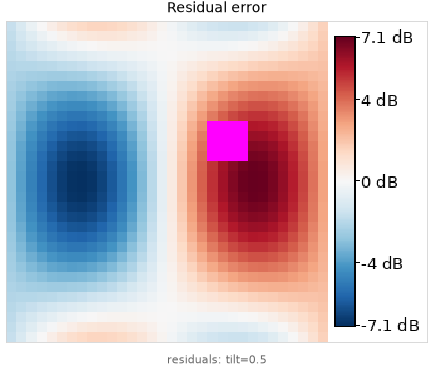
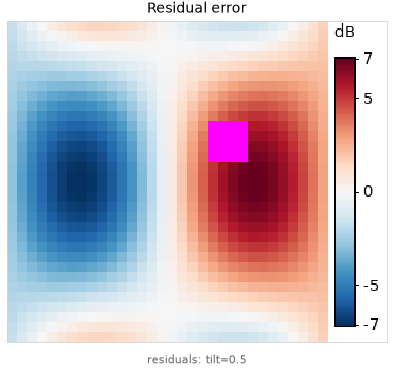
Colorbar: unit once above the bar, consistent decimals, ends never dropped
- unit (and a x10^k multiplier for >= 1e5 / < 1e-2 ranges) written once
  above the bar; colorbar="text" writes a longer label vertically
- all labels of a bar share their decimals; the ends get enough decimals
  to be within 0.5 % of the range; round ticks 1/2/5 x 10^k; a tick close
  to an end is dropped, never the end (place_colorbar_labels)
- tests over [1, 4.2], [-0.39, 0.39], [0, 255], [1e-4, 3e-3], [0, 1e6],
  constant maps, 16 px to 1200 px maps; docs image regenerated

diff --git a/src/interactive_pipe/graphical/display.py b/src/interactive_pipe/graphical/display.py
@@ -13,7 +13,7 @@ No GUI toolkit is imported here.
 """
 
 from functools import lru_cache
-from typing import Any, List, Optional, Tuple
+from typing import Any, List, Optional, Sequence, Tuple
 
 import numpy as np
 
@@ -258,8 +258,10 @@ def apply_display_style(content: Any, style: Optional[dict]) -> Any:
       max, as in matplotlib; ``center=c`` makes the range symmetric around
       ``c``) and, with a colormap, turned into an ``(H, W, 3)`` RGB image;
     - ``colorbar=True`` appends the scale on the right (gray colormap when
-      none is given), with labelled ticks (``unit`` appended to each label).
-      Small maps are upscaled first so the text stays legible;
+      none is given), with labelled ticks; ``unit`` is written once above the
+      bar (with a ``x10^k`` multiplier for very large / small values);
+      ``colorbar="some text"`` also writes that text vertically along the
+      bar. Small maps are upscaled first so the text stays legible;
     - NaN and masked values (``numpy.ma``) are drawn in ``BAD_COLOR``
       (magenta) — the output becomes RGB when there are any; ``+inf`` /
       ``-inf`` are clipped to the top / bottom of the scale.
@@ -297,7 +299,8 @@ def apply_display_style(content: Any, style: Optional[dict]) -> Any:
     upscale = colorbar_upscale(rgb.shape[0], rgb.shape[1])
     if upscale > 1:
         rgb = np.repeat(np.repeat(rgb, upscale, axis=0), upscale, axis=1)
-    strip = colorbar_strip(cmap, vmin, vmax, rgb.shape[0], style.get("unit"))
+    label = style.get("colorbar") if isinstance(style.get("colorbar"), str) else style.get("label")
+    strip = colorbar_strip(cmap, vmin, vmax, rgb.shape[0], style.get("unit"), label)
     return np.concatenate([rgb, strip], axis=1)
 
 
@@ -322,42 +325,101 @@ def get_font(size: int) -> Any:
 
 
 def _tick_step(vmin: float, vmax: float) -> Tuple[List[float], float]:
-    """Round tick values inside [vmin, vmax] and their spacing."""
+    """Round tick values (1, 2 or 5 x 10^k apart) inside [vmin, vmax] and their spacing."""
     from matplotlib.ticker import MaxNLocator
 
     if vmax <= vmin:
         return [], 0.0
-    ticks = MaxNLocator(nbins=4).tick_values(vmin, vmax)
+    ticks = MaxNLocator(nbins=4, steps=[1, 2, 5, 10]).tick_values(vmin, vmax)
     step = float(ticks[1] - ticks[0]) if len(ticks) > 1 else vmax - vmin
     tolerance = 1e-9 * (vmax - vmin)
     return [float(t) for t in ticks if vmin - tolerance <= t <= vmax + tolerance], step
 
 
-def _format_tick(value: float, step: float) -> str:
-    """Tick label with as many decimals as the tick spacing needs."""
-    if value == 0:
-        return "0"
-    magnitude = max(abs(value), step)
-    if magnitude >= 1e5 or (step > 0 and step < 1e-4):
-        return f"{value:.3g}"
-    decimals = 0 if step <= 0 else max(0, int(-np.floor(np.log10(step))))
+_SUPERSCRIPT = str.maketrans("-0123456789", "\u207b\u2070\u00b9\u00b2\u00b3\u2074\u2075\u2076\u2077\u2078\u2079")
+COLORBAR_MAX_DECIMALS = 6
+COLORBAR_END_TOLERANCE = 0.005  # an end label is at most 0.5 % of the range away from the true value
+
+
+def _decimals(values: Sequence[float], tolerance: float) -> int:
+    """Fewest decimals writing every value within `tolerance`."""
+    for decimals in range(COLORBAR_MAX_DECIMALS + 1):
+        if all(abs(round(value, decimals) - value) <= tolerance for value in values):
+            return decimals
+    return COLORBAR_MAX_DECIMALS
+
+
+def _fixed(value: float, decimals: int) -> str:
     text = f"{value:.{decimals}f}"
-    return "0" if text in ("-0", "-0.0") else text
+    return text[1:] if text.startswith("-") and float(text) == 0 else text  # no "-0.00"
 
 
-def _colorbar_labels(vmin: float, vmax: float, unit: Optional[str]) -> List[Tuple[float, str, bool]]:
-    """(value, text, is_end) for the two ends and the round ticks between."""
-    ticks, step = _tick_step(vmin, vmax)
-    suffix = f" {unit}" if unit else ""
-    ends = [vmin] if vmax == vmin else [vmin, vmax]
-    labels = [(value, _format_tick(value, step / 10.0 if step else 0.0) + suffix, True) for value in ends]
-    labels += [(value, _format_tick(value, step) + suffix, False) for value in ticks]
-    return labels
+def colorbar_scale(vmin: float, vmax: float) -> Tuple[List[Tuple[float, str, bool]], int]:
+    """Labels of a colorbar and its power-of-ten multiplier.
+
+    Returns ``([(value, text, is_end), ...], exponent)``: the two ends (one
+    for a constant map) and the round ticks between, all written with the
+    same number of decimals, as ``value / 10**exponent``. ``exponent`` is 0
+    unless the values are very large (>= 1e5) or very small (< 1e-2), when
+    the bar shows ``x10^exponent`` once at its top instead of ``1e-03`` on
+    every tick. The ends get enough decimals to be within 0.5 % of the range
+    of the true value (``4.2``, not ``4``)."""
+    largest = max(abs(vmin), abs(vmax))
+    exponent = 0
+    if largest >= 1e5 or 0 < largest < 1e-2:
+        exponent = int(np.floor(np.log10(largest)))
+    scale = 10.0**exponent
+    low, high = vmin / scale, vmax / scale
+    if high == low:
+        return [(vmin, f"{low:.4g}", True)], exponent
+    ticks, step = _tick_step(low, high)
+    decimals = max(
+        _decimals(ticks, 1e-6 * step),
+        _decimals([low, high], COLORBAR_END_TOLERANCE * (high - low)),
+    )
+    labels = [(value * scale, _fixed(value, decimals), True) for value in (low, high)]
+    labels += [(value * scale, _fixed(value, decimals), False) for value in ticks]
+    return labels, exponent
 
 
-def colorbar_strip(colormap: Any, vmin: float, vmax: float, height: int, unit: Optional[str] = None) -> np.ndarray:
+def place_colorbar_labels(
+    labels: List[Tuple[float, str, bool]], vmin: float, vmax: float, bar_top: float, bar_h: int, min_distance: float
+) -> List[Tuple[float, str]]:
+    """``(y, text)`` of the labels drawn: the ends always, a round tick only
+    when it is at least `min_distance` pixels from every label kept."""
+    span = vmax - vmin
+    placed: List[Tuple[float, str]] = []
+    for value, text, is_end in sorted(labels, key=lambda item: not item[2]):  # ends first: never dropped
+        fraction = (value - vmin) / span if span else 0.5
+        y = bar_top + (1.0 - fraction) * (bar_h - 1)
+        if not is_end and any(abs(y - other) < min_distance for other, _ in placed):
+            continue  # a round tick too close to a label already drawn
+        placed.append((y, text))
+    return placed
+
+
+def colorbar_header(exponent: int, unit: Optional[str]) -> str:
+    """Text above the bar: the multiplier (``\u00d710\u207b\u00b3``) and the unit, once."""
+    parts = []
+    if exponent:
+        parts.append("\u00d710" + str(exponent).translate(_SUPERSCRIPT))
+    if unit:
+        parts.append(str(unit))
+    return " ".join(parts)
+
+
+def colorbar_strip(
+    colormap: Any,
+    vmin: float,
+    vmax: float,
+    height: int,
+    unit: Optional[str] = None,
+    label: Optional[str] = None,
+) -> np.ndarray:
     """``(height, w, 3)`` float RGB strip: a vertical colour scale from
-    ``vmin`` (bottom) to ``vmax`` (top) with labelled ticks, on white."""
+    ``vmin`` (bottom) to ``vmax`` (top) with labelled ticks, on white; the
+    unit (and a power-of-ten multiplier) once above the bar, ``label``
+    written vertically along it."""
     import matplotlib
 
     key = getattr(colormap, "name", None)
@@ -366,18 +428,22 @@ def colorbar_strip(colormap: Any, vmin: float, vmax: float, height: int, unit: O
     if not isinstance(key, str) or key not in matplotlib.colormaps or matplotlib.colormaps[key] != colormap:
         key = None
     if key is None:
-        return _colorbar_strip(colormap, vmin, vmax, height, unit)
-    return _cached_colorbar_strip(key, vmin, vmax, height, unit)
+        return _colorbar_strip(colormap, vmin, vmax, height, unit, label)
+    return _cached_colorbar_strip(key, vmin, vmax, height, unit, label)
 
 
 @lru_cache(maxsize=32)
-def _cached_colorbar_strip(name: str, vmin: float, vmax: float, height: int, unit: Optional[str]) -> np.ndarray:
-    strip = _colorbar_strip(_resolve_colormap(name), vmin, vmax, height, unit)
+def _cached_colorbar_strip(
+    name: str, vmin: float, vmax: float, height: int, unit: Optional[str], label: Optional[str]
+) -> np.ndarray:
+    strip = _colorbar_strip(_resolve_colormap(name), vmin, vmax, height, unit, label)
     strip.setflags(write=False)  # shared between calls
     return strip
 
 
-def _colorbar_strip(colormap: Any, vmin: float, vmax: float, height: int, unit: Optional[str]) -> np.ndarray:
+def _colorbar_strip(
+    colormap: Any, vmin: float, vmax: float, height: int, unit: Optional[str], label: Optional[str]
+) -> np.ndarray:
     from PIL import Image as PILImage
     from PIL import ImageDraw
 
@@ -386,13 +452,28 @@ def _colorbar_strip(colormap: Any, vmin: float, vmax: float, height: int, unit: 
     gap = max(4, font_px // 2)
     bar_w = max(10, int(font_px * 1.2))
     tick_len = max(3, font_px // 4)
-    bar_top = min(font_px, height // 4)
-    bar_h = max(2, height - 2 * bar_top)
-    labels = _colorbar_labels(vmin, vmax, unit)
+    labels, exponent = colorbar_scale(vmin, vmax)
+    header = colorbar_header(exponent, unit)
     probe = ImageDraw.Draw(PILImage.new("RGB", (1, 1)))
+    header_h = font_px + max(2, font_px // 3) if header else 0
+    # room above the bar for the header, then half a label (the top end is centred on the bar's top)
+    bar_top = min(header_h + font_px, height // 3) if header else min(font_px, height // 4)
+    bar_bottom = min(font_px, height // 4)
+    bar_h = max(2, height - bar_top - bar_bottom)
     text_w = max((probe.textbbox((0, 0), text, font=font)[2] for _, text, _ in labels), default=0)
     label_x = gap + bar_w + tick_len + max(3, font_px // 3)  # clear of the tick: '-0.5' must not read '--0.5'
     width = int(label_x + text_w + gap)
+    side = None
+    if label:
+        box = probe.textbbox((0, 0), str(label), font=font)
+        side = PILImage.new("RGB", (int(box[2]) + 2, int(box[3]) + 2), (255, 255, 255))
+        ImageDraw.Draw(side).text((1, 1), str(label), font=font, fill=(0, 0, 0))
+        side = side.rotate(90, expand=True)  # reads bottom to top, like matplotlib's colorbar label
+        if side.height > height:  # longer than the map: cropped rather than shrunk
+            side = side.crop((0, (side.height - height) // 2, side.width, (side.height + height) // 2))
+        width += side.width + gap
+    if header:
+        width = max(width, int(gap + probe.textbbox((0, 0), header, font=font)[2] + gap))
 
     strip = PILImage.new("RGB", (width, height), (255, 255, 255))
     gradient = np.asarray(colormap(np.linspace(1.0, 0.0, bar_h)))[:, :3]
@@ -400,16 +481,12 @@ def _colorbar_strip(colormap: Any, vmin: float, vmax: float, height: int, unit: 
     strip.paste(PILImage.fromarray(np.ascontiguousarray(np.repeat(column[:, None, :], bar_w, axis=1))), (gap, bar_top))
     draw = ImageDraw.Draw(strip)
     draw.rectangle([gap - 1, bar_top - 1, gap + bar_w, bar_top + bar_h], outline=(0, 0, 0))
+    if header:
+        draw.text((gap - 1, max(0, bar_top - font_px - header_h)), header, font=font, fill=(0, 0, 0))
+    if side is not None:
+        strip.paste(side, (width - gap - side.width, bar_top + (bar_h - side.height) // 2))
 
-    span = vmax - vmin
-    min_distance = font_px * 1.15
-    placed: List[float] = []
-    for value, text, is_end in sorted(labels, key=lambda item: not item[2]):  # ends first
-        fraction = (value - vmin) / span if span else 0.5
-        y = bar_top + (1.0 - fraction) * (bar_h - 1)
-        if not is_end and any(abs(y - other) < min_distance for other in placed):
-            continue  # would overlap a label already drawn
-        placed.append(y)
+    for y, text in place_colorbar_labels(labels, vmin, vmax, bar_top, bar_h, font_px * 1.15):
         draw.line([gap + bar_w, y, gap + bar_w + tick_len, y], fill=(0, 0, 0))
         box = draw.textbbox((0, 0), text, font=font)
         draw.text((label_x, y - (box[1] + box[3]) / 2.0), text, font=font, fill=(0, 0, 0))

diff --git a/test/test_heatmap_colorbar.py b/test/test_heatmap_colorbar.py
@@ -11,10 +11,13 @@ from interactive_pipe import FilterError, interactive, layout
 from interactive_pipe.graphical.display import (
     BAD_COLOR,
     COLORBAR_MIN_HEIGHT,
-    _colorbar_labels,
     apply_display_style,
+    colorbar_header,
+    colorbar_scale,
+    colorbar_strip,
     colorbar_upscale,
     heatmap_geometry,
+    place_colorbar_labels,
 )
 from interactive_pipe.headless.pipeline import HeadlessPipeline
 
@@ -65,14 +68,84 @@ def test_colorbar_without_colormap_uses_gray():
     np.testing.assert_allclose(right, [1.0, 1.0, 1.0])
 
 
-def test_colorbar_labels_have_ends_round_ticks_and_unit():
-    labels = _colorbar_labels(-1.0, 3.0, "dB")
+RANGES = [(1.0, 4.2), (-0.39, 0.39), (0.0, 255.0), (1e-4, 3e-3), (0.0, 1e6), (-3.7, 12.3), (0.0, 1.0), (2.0, 2.0)]
+
+
+def _decimals_of(text):
+    return len(text.split(".")[1]) if "." in text else 0
+
+
+@pytest.mark.parametrize("vmin, vmax", RANGES)
+def test_colorbar_labels_share_their_decimals(vmin, vmax):
+    labels, exponent = colorbar_scale(vmin, vmax)
     texts = [text for _, text, _ in labels]
+    assert len({_decimals_of(text) for text in texts}) == 1, texts
+    assert not any("e" in text for text in texts), texts  # large / small values: one multiplier instead
+    # each end is written close to its true value (4.2, not 4)
+    for value, text, is_end in labels:
+        if is_end and vmax > vmin:
+            assert abs(float(text) * 10.0**exponent - value) <= 0.005 * (vmax - vmin)
+
+
+def test_colorbar_labels_examples():
+    def texts(vmin, vmax):
+        labels, exponent = colorbar_scale(vmin, vmax)
+        return [text for _, text, _ in labels], exponent
+
+    assert texts(1.0, 4.2) == (["1.0", "4.2", "1.0", "2.0", "3.0", "4.0"], 0)
+    assert texts(-0.39, 0.39)[0][:2] == ["-0.39", "0.39"]
+    assert "0.00" in texts(-0.39, 0.39)[0]  # never "-0.00"
+    assert texts(0.0, 255.0)[0][:2] == ["0", "255"]
+    assert texts(1e-4, 3e-3) == (["0.1", "3.0", "1.0", "2.0", "3.0"], -3)
+    assert texts(0.0, 1e6)[1] == 6
+    assert texts(2.0, 2.0) == (["2"], 0)
+    assert colorbar_header(-3, "m") == "\u00d710\u207b\u00b3 m"
+    assert colorbar_header(0, "dB") == "dB"
+    assert colorbar_header(0, None) == ""
+
+
+@pytest.mark.parametrize("vmin, vmax", RANGES)
+@pytest.mark.parametrize("bar_h", [40, 230, 900])
+def test_colorbar_keeps_both_ends_and_drops_overlapping_ticks(vmin, vmax, bar_h):
+    labels, _ = colorbar_scale(vmin, vmax)
+    placed = place_colorbar_labels(labels, vmin, vmax, 10, bar_h, 15.0)
     ends = [text for _, text, is_end in labels if is_end]
-    assert ends == ["-1.0 dB", "3.0 dB"]
-    assert "1 dB" in texts
-    assert all(text.endswith(" dB") for text in texts)
-    assert _colorbar_labels(0.0, 1e6, None)[1][1] == "1e+06"
+    assert [text for _, text in placed[: len(ends)]] == ends
+    ys = sorted(y for y, _ in placed)
+    assert all(b - a >= 15.0 for a, b in zip(ys, ys[1:])) or len(ends) == 2 and len(placed) == 2
+
+
+def _strip_text_columns(strip):
+    """Columns holding dark (text) pixels right of the bar."""
+    dark = (strip.mean(axis=-1) < 0.5).any(axis=0)
+    return np.flatnonzero(dark)
+
+
+def test_unit_is_written_once_not_on_every_tick():
+    with_unit = colorbar_strip(matplotlib.colormaps["viridis"], 1.0, 4.2, 256, unit="log10 |F|")
+    without = colorbar_strip(matplotlib.colormaps["viridis"], 1.0, 4.2, 256)
+    # the tick labels keep their width: the unit sits above the bar
+    assert with_unit.shape[1] <= max(without.shape[1], 100)
+    # and the header row has text where the plain strip has none
+    top = slice(0, 6)  # above the top end label
+    assert (with_unit[top].mean(axis=-1) < 0.5).any() and not (without[top].mean(axis=-1) < 0.5).any()
+
+
+def test_colorbar_text_becomes_a_vertical_label():
+    plain = apply_display_style(RAMP, {"colormap": "viridis", "colorbar": True})
+    labelled = apply_display_style(RAMP, {"colormap": "viridis", "colorbar": "error (px)"})
+    assert labelled.shape[0] == plain.shape[0] and labelled.shape[1] > plain.shape[1]
+    np.testing.assert_array_equal(labelled[:, : plain.shape[1] - 10], plain[:, : plain.shape[1] - 10])
+
+
+@pytest.mark.parametrize("size", [16, 64, 300, 1200])
+@pytest.mark.parametrize("vmin, vmax", [(1.0, 4.2), (2.0, 2.0), (1e-4, 3e-3)])
+def test_colorbar_on_tiny_and_large_maps(size, vmin, vmax):
+    data = np.linspace(vmin, vmax, size * size).reshape(size, size)
+    out = apply_display_style(data, {"colormap": "viridis", "colorbar": True, "unit": "dB"})
+    upscale = colorbar_upscale(size, size)
+    assert out.shape[0] == size * upscale
+    assert out.shape[1] > size * upscale
 
 
 def test_constant_map_with_colorbar_does_not_fail():
@@ -177,7 +250,7 @@ def test_snapshot_shows_the_colorbar():
     pipe = HeadlessPipeline.from_function(diverging_pipeline)
     img = np.random.default_rng(2).random((32, 32, 3))
     rendered = pipe.snapshot(None, img)
-    assert rendered.shape[1] > rendered.shape[0] * 1.15  # wider than the square map: the bar is there
+    assert rendered.shape[1] > rendered.shape[0] * 1.1  # wider than the square map: the bar is there
 
 
 def test_non_numeric_center_raises():

diff --git a/docs/guide/figures-and-overlays.md b/docs/guide/figures-and-overlays.md
@@ -70,8 +70,8 @@ Return a 2D `(H, W)` array and describe its display with
 | `colormap` | matplotlib colormap name or `Colormap` object. |
 | `vmin`, `vmax` | Values mapped to the ends of the colormap; each defaults to the data min / max. |
 | `center` | Widens the range to be symmetric around this value: `colormap="RdBu", center=0` for signed data. |
-| `colorbar` | `True` draws the scale on the right of the map: min, max and round ticks. |
-| `unit` | Text appended to the colorbar labels, e.g. `unit="dB"`. |
+| `colorbar` | `True` draws the scale on the right of the map: min, max and round ticks. A string, `colorbar="log10 \|F\|"`, also writes it vertically along the bar (for a longer description). |
+| `unit` | Short unit written once, above the bar, e.g. `unit="dB"`. |
 
 ```python
 import numpy as np
@@ -103,6 +103,12 @@ heatmap_pipeline.snapshot("docs/images/figures_heatmap_colorbar.png")
   every backend and in snapshots. A small map (like this 32 x 32 one) is
   first enlarged (nearest neighbour, integer factor) so the labels stay
   legible; large maps are not resampled.
+- **Labels**: both ends of the range are always labelled (with enough
+  decimals to be within 0.5 % of the true value: `4.2`, not `4`), round
+  ticks in between are dropped when they would overlap an end, and every
+  label of a bar has the same number of decimals. Very large (>= 1e5) or
+  very small (< 1e-2) values are written once as a multiplier above the bar
+  (`×10⁻³ m`) instead of `0.0024 m` on every tick.
 - **NaN and masked values** (`numpy.ma`) are shown in **magenta**, a colour
   no common colormap uses, so a missing value never reads as a valid one;
   they are ignored when computing the automatic range. A `Colormap` with

diff --git a/docs/guide/layout.md b/docs/guide/layout.md
@@ -57,8 +57,8 @@ Live layout switching (e.g. going from a side-by-side comparison to a 2x2 grid w
 | `colormap` | matplotlib colormap name (`"viridis"`, `"magma"`, ...) used to display a 2D `(H, W)` array as a heatmap. |
 | `vmin`, `vmax` | Values mapped to the bottom / top of the colormap (or to black / white without one) for 2D arrays. Each defaults to the data min / max, as in matplotlib. |
 | `center` | Makes the range symmetric around this value (diverging colormaps: `colormap="RdBu", center=0`). |
-| `colorbar` | `True` draws the scale (min, max, round ticks) to the right of a 2D array, inside the image: same on every backend and in snapshots. |
-| `unit` | Text appended to the colorbar labels (`unit="dB"`). |
+| `colorbar` | `True` draws the scale (min, max, round ticks) to the right of a 2D array, inside the image: same on every backend and in snapshots. A string is also written along the bar as its label. |
+| `unit` | Short unit written once above the colorbar (`unit="dB"`). |
 | `dpi` | Resolution of a matplotlib figure output (default 120). |
 | `xlabel`, `ylabel` | Axis labels — matplotlib backend only (for curves use `Curve(..., xlabel=...)`). |
 
